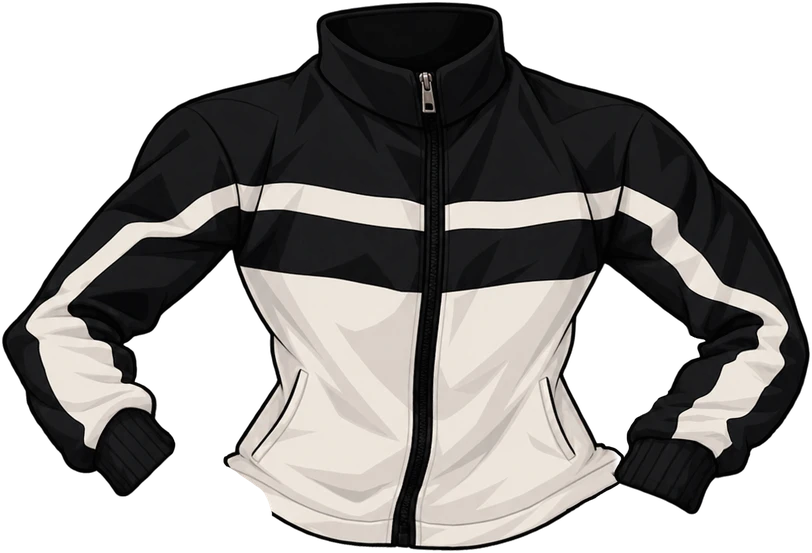
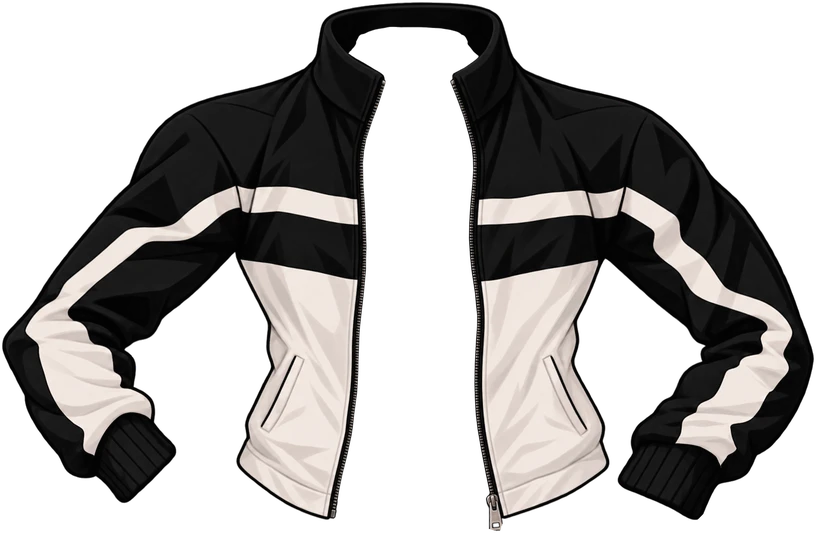
Комaндате's jacket: the artist's redrawn one
Claude-Session: https://claude.ai/code/session_01E3jaUxUo8xTQNwyakAWMq3

Changed region(s): [[0.0, 0.0, 1.0, 1.0], [0.6158, 0.06, 0.8313, 0.2402], [0.8313, 0.2402, 0.8621, 0.3002]]

diff --git a/src/client/preload.ts b/src/client/preload.ts
@@ -9,7 +9,7 @@ import { ASSET_FILES } from "./asset-manifest.ts";
 import { ROOM_BACKDROP, ROOM_BG } from "../content/home-scene.ts";
 
 /** cache-busting versions of redrawn art (bump when the picture changes) */
-export const ART_VER = { heroPart: 11, hair: 8, wear: 18, items: 21, pepe: 2, tattoo: 11, monitor: 2, chair: 5 } as const;
+export const ART_VER = { heroPart: 11, hair: 8, wear: 19, items: 21, pepe: 2, tattoo: 11, monitor: 2, chair: 5 } as const;
 
 /** the URL a screen really requests for a file from the manifest */
 export function usedUrl(path: string): string {

diff --git a/src/client/art/rig-look.ts b/src/client/art/rig-look.ts
@@ -92,10 +92,10 @@ export const WEAR_FIT = {
   },
   "jacket-komandate": {
     "slot": "SHIRT",
-    "x": 90.5,
-    "y": 246.5,
-    "w": 812,
-    "h": 553
+    "x": 88.5,
+    "y": 242.0,
+    "w": 816,
+    "h": 533
   },
   "pants-komandate": {
     "slot": "PANTS",
